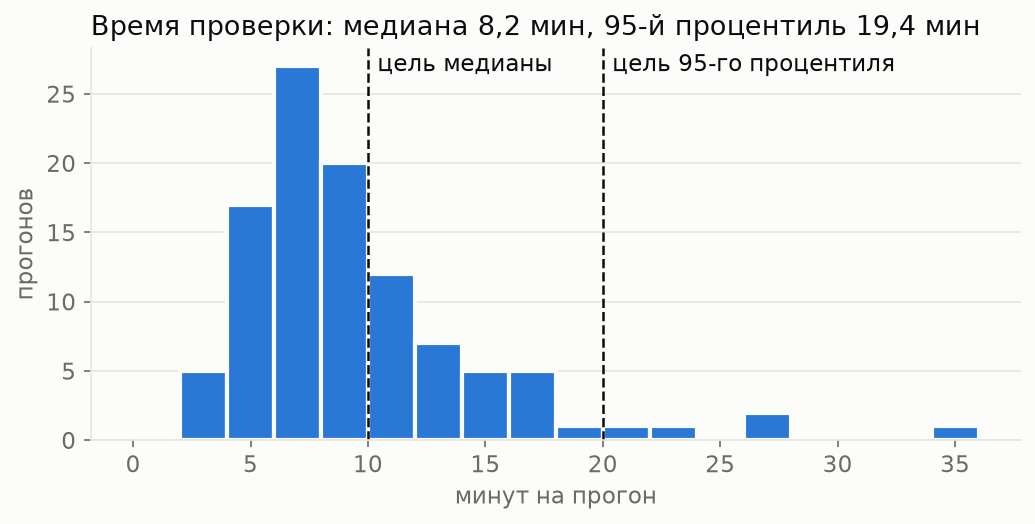
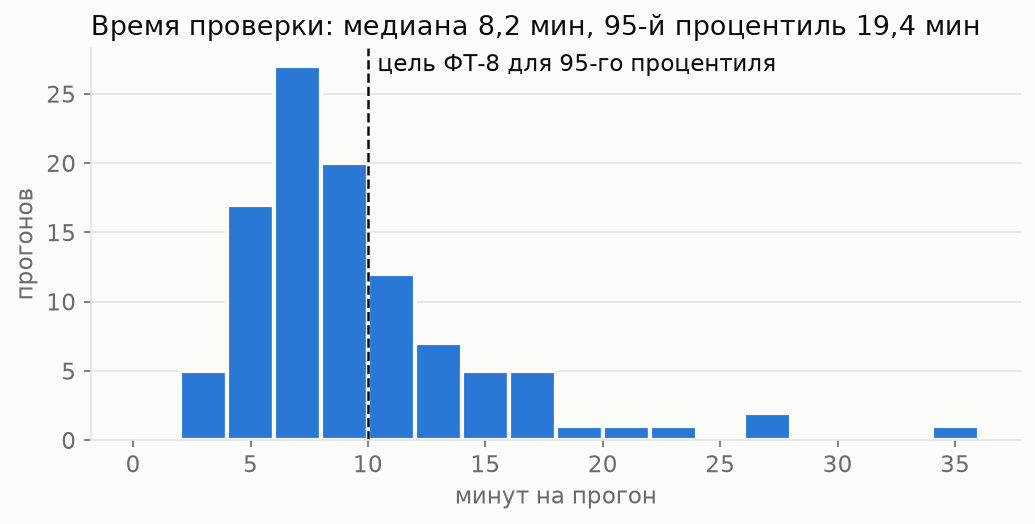
docs: цель по времени ФТ-8 это 95-й процентиль до 10 минут
Прежние 20 минут ничего не требовали от судьи: им соответствовала уже
текущая версия. Студенту ответ нужен, пока он ещё сидит над работой,
поэтому цель строже, и скорость становится направлением работы наравне с
качеством. Сейчас 95-й процентиль 19,4 минуты, требование не выполнено.

Changed region(s): [[0.4329, 0.0916, 0.8657, 0.1527]]

diff --git a/reports/eda.md b/reports/eda.md
@@ -45,7 +45,7 @@
 ![06_runs_by_week](figures/06_runs_by_week.png)
 ![07_tokens_vs_minutes](figures/07_tokens_vs_minutes.png)
 
-**Вывод.** Медиана 8,2 минуты и 95-й процентиль 19,4 укладываются в ФТ-8, но 5 прогонов дольше 20 минут. Нагрузка идёт волнами: почти все проверки приходятся на недели 5, 7 и 9, до 38 прогонов в неделю, поэтому нагрузочный тест в ДЗ 4 надо строить на волне, а не на среднем. На прогон уходит около 650 тысяч токенов, 81% входных берутся из кэша. Связь токенов со временем умеренная (0,45), значит при сравнении версий надо смотреть на оба числа.
+**Вывод.** Медиана 8,2 минуты, но 95-й процентиль 19,4 почти вдвое выше цели ФТ-8 в 10 минут: треть прогонов идёт дольше, а 5 прогонов дольше 20 минут. Скорость надо улучшать наравне с качеством. Нагрузка идёт волнами: почти все проверки приходятся на недели 5, 7 и 9, до 38 прогонов в неделю, поэтому нагрузочный тест в ДЗ 4 надо строить на волне, а не на среднем. На прогон уходит около 650 тысяч токенов, 81% входных берутся из кэша. Связь токенов со временем умеренная (0,45), значит при сравнении версий надо смотреть на оба числа.
 
 ## 7. Приёмка и перепроверки
 
